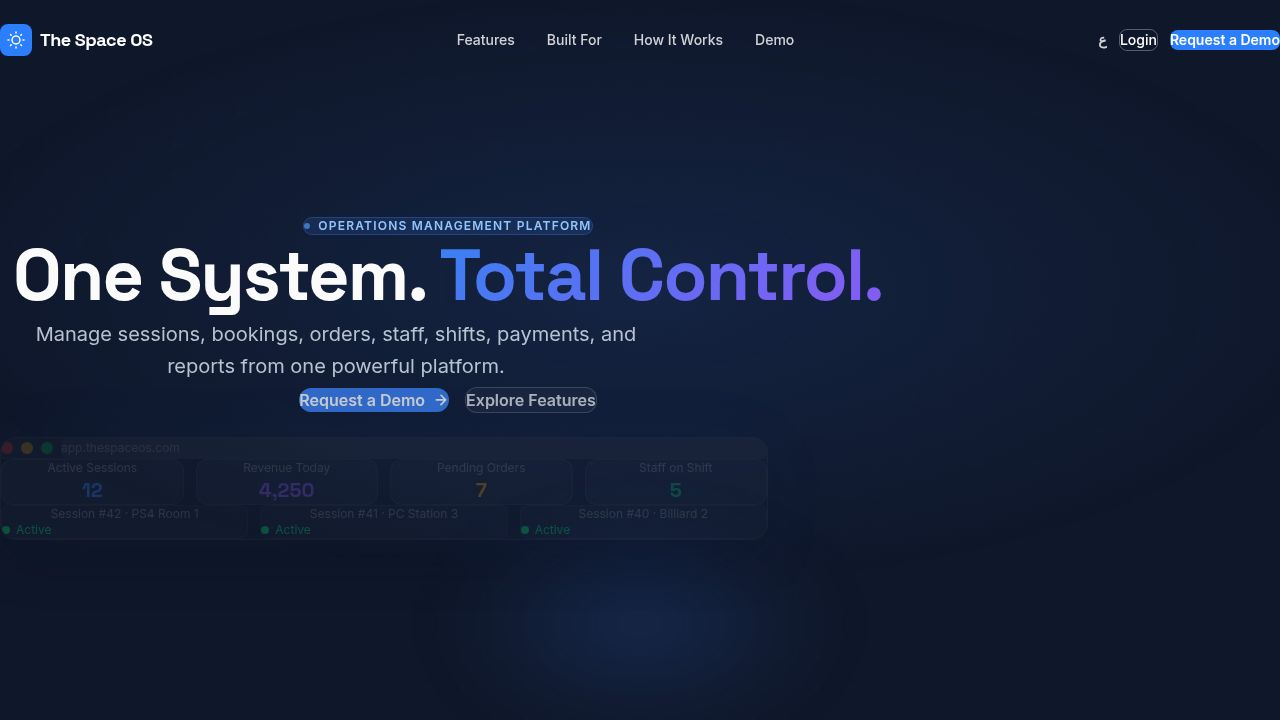
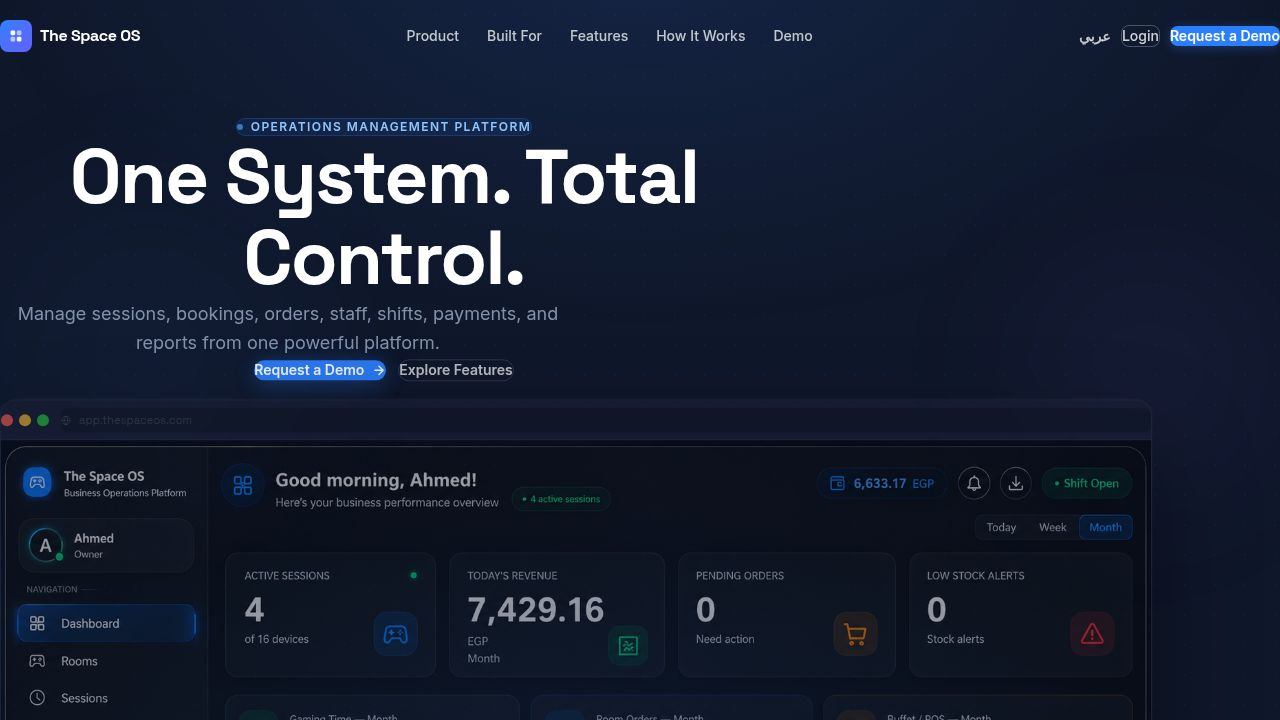
Improve spacing and navigation on the landing page
Add scroll offsets to sections and a spacer div to the hero section for improved spacing and navigation, resolving overlap issues.

Replit-Commit-Author: Agent
Replit-Commit-Session-Id: f2d006b3-daab-4307-b836-c9a04f1be8e0
Replit-Commit-Checkpoint-Type: full_checkpoint
Replit-Commit-Event-Id: 34c0d3c4-77a4-4ed0-b352-186db2c9e275
Replit-Commit-Screenshot-Url: https://storage.googleapis.com/screenshot-production-us-central1/b7e7fe36-5717-43a3-9046-c093cd64e42b/f2d006b3-daab-4307-b836-c9a04f1be8e0/3zxYoaA
Replit-Helium-Checkpoint-Created: true

diff --git a/artifacts/landing-page/src/components/landing/HeroSection.tsx b/artifacts/landing-page/src/components/landing/HeroSection.tsx
@@ -34,7 +34,7 @@ function BrowserFrame({ src, alt }: { src: string; alt: string }) {
 
 export function HeroSection({ t, dir }: HeroSectionProps) {
   return (
-    <section className="relative overflow-hidden pt-24 pb-0 bg-[#0f172a]">
+    <section className="relative overflow-hidden pb-0 bg-[#0f172a]">
       {/* Dot grid */}
       <div className="absolute inset-0 dot-grid pointer-events-none opacity-[0.38]" />
 
@@ -48,7 +48,9 @@ export function HeroSection({ t, dir }: HeroSectionProps) {
       <div className="absolute pointer-events-none top-[15%] -right-[6%] w-[420px] h-[420px] rounded-full blur-[48px] bg-[radial-gradient(circle,rgba(139,92,246,0.06)_0%,transparent_70%)]" />
 
       <div className="relative max-w-7xl mx-auto px-4 sm:px-6 lg:px-8">
-        <div className="max-w-3xl mx-auto text-center pt-14 sm:pt-20 pb-14 sm:pb-16">
+        {/* Spacer that clears the fixed navbar (h-16 mobile / md:h-18) + breathing room */}
+        <div className="h-24 sm:h-28" aria-hidden="true" />
+        <div className="max-w-3xl mx-auto text-center pb-14 sm:pb-16">
           {/* Badge */}
           <motion.div
             initial={{ opacity: 0, y: 16 }}

diff --git a/artifacts/landing-page/src/components/landing/BuiltForSection.tsx b/artifacts/landing-page/src/components/landing/BuiltForSection.tsx
@@ -83,7 +83,7 @@ const audiences: Array<{
 
 export function BuiltForSection({ t }: BuiltForSectionProps) {
   return (
-    <section id="built-for" className="py-20 sm:py-28 bg-[#f8fafc]">
+    <section id="built-for" className="py-20 sm:py-28 bg-[#f8fafc] scroll-mt-20">
       <div className="max-w-7xl mx-auto px-4 sm:px-6 lg:px-8">
         <motion.div
           initial={{ opacity: 0, y: 24 }}

diff --git a/artifacts/landing-page/src/components/landing/DemoFormSection.tsx b/artifacts/landing-page/src/components/landing/DemoFormSection.tsx
@@ -77,7 +77,7 @@ export function DemoFormSection({ t, lang }: DemoFormSectionProps) {
   const errorBase = "mt-1 text-xs text-red-500";
 
   return (
-    <section id="demo" className="py-20 sm:py-28 bg-white">
+    <section id="demo" className="py-20 sm:py-28 bg-white scroll-mt-20">
       <div className="max-w-2xl mx-auto px-4 sm:px-6 lg:px-8">
         <motion.div
           initial={{ opacity: 0, y: 24 }}

diff --git a/artifacts/landing-page/src/components/landing/FeaturesSection.tsx b/artifacts/landing-page/src/components/landing/FeaturesSection.tsx
@@ -96,7 +96,7 @@ const features: Array<{
 
 export function FeaturesSection({ t }: FeaturesSectionProps) {
   return (
-    <section id="features" className="py-20 sm:py-28 bg-white">
+    <section id="features" className="py-20 sm:py-28 bg-white scroll-mt-20">
       <div className="max-w-7xl mx-auto px-4 sm:px-6 lg:px-8">
         <motion.div
           initial={{ opacity: 0, y: 24 }}

diff --git a/artifacts/landing-page/src/components/landing/HowItWorksSection.tsx b/artifacts/landing-page/src/components/landing/HowItWorksSection.tsx
@@ -66,7 +66,7 @@ const steps: Array<{
 
 export function HowItWorksSection({ t, dir }: HowItWorksSectionProps) {
   return (
-    <section id="how-it-works" className="py-20 sm:py-28 bg-[#0f172a]">
+    <section id="how-it-works" className="py-20 sm:py-28 bg-[#0f172a] scroll-mt-20">
       <div className="max-w-7xl mx-auto px-4 sm:px-6 lg:px-8">
         <motion.div
           initial={{ opacity: 0, y: 24 }}

diff --git a/artifacts/landing-page/src/components/landing/ProductScreenshotsSection.tsx b/artifacts/landing-page/src/components/landing/ProductScreenshotsSection.tsx
@@ -53,7 +53,7 @@ const screenshots: Array<{
 
 export function ProductScreenshotsSection({ t }: ProductScreenshotsSectionProps) {
   return (
-    <section id="product" className="py-20 sm:py-28 bg-[#f8fafc]">
+    <section id="product" className="py-20 sm:py-28 bg-[#f8fafc] scroll-mt-20">
       <div className="max-w-7xl mx-auto px-4 sm:px-6 lg:px-8">
         <motion.div
           initial={{ opacity: 0, y: 24 }}